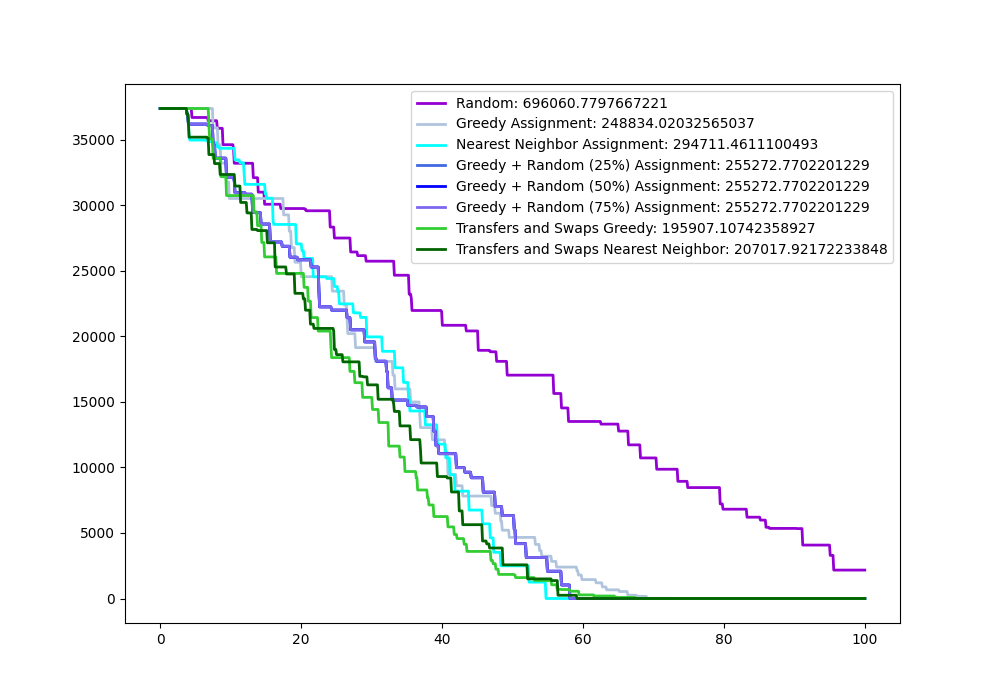
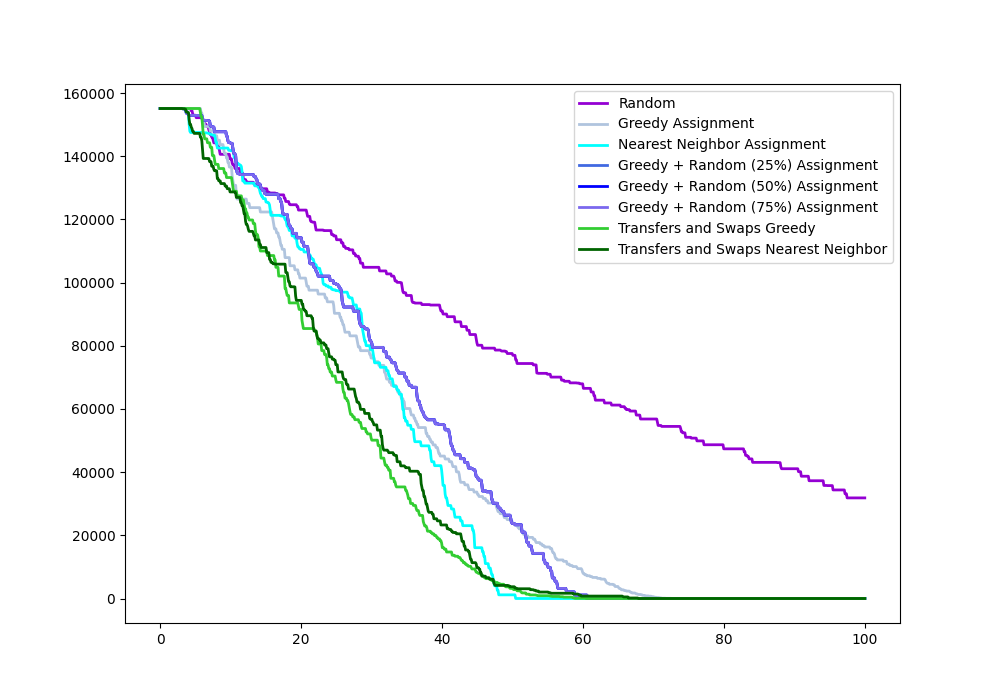
mass benchmark data collection complete

diff --git a/mass_benchmark.py b/mass_benchmark.py
@@ -102,12 +102,16 @@ def main() -> None:
     #         json.dump(res, outfile)
 
     ############################################################################
+    ######################### Generating Assignments ###########################
+    ############################################################################
+
+    ############################################################################
     ######################## Plotting Visited Targets ##########################
     ############################################################################
 
     # Parameters for Graphs and Partitions
-    num_agents: int = 5
-    num_nodes: int = 51  # 20 agents * 10 nodes per agent + start
+    num_agents: int = 20
+    num_nodes: int = 201  # 20 agents * 10 nodes per agent + start
     upper: float = 1.0  # Travel time between 0.5-1 hour
     node_w: tuple[int, int] = (1, 1500)
 
@@ -153,12 +157,12 @@ def main() -> None:
     assignments.append(paths)
     names.append("Greedy + Random (25%) Assignment")
     colors.append("royalblue")
-    
+
     paths = algos.greedy_random_assignment(g, num_agents, 0.5 + (dist_range * 0.50))
     assignments.append(paths)
     names.append("Greedy + Random (50%) Assignment")
     colors.append("blue")
-    
+
     paths = algos.greedy_random_assignment(g, num_agents, 0.5 + (dist_range * 0.75))
     assignments.append(paths)
     names.append("Greedy + Random (75%) Assignment")
@@ -170,13 +174,70 @@ def main() -> None:
     names.append("Transfers and Swaps Greedy")
     colors.append("limegreen")
 
-    part = algos.find_partition_with_heuristic(g, partition, algos.nearest_neighbor, 0.13)
+    part = algos.find_partition_with_heuristic(
+        g, partition, algos.nearest_neighbor, 0.13
+    )
     paths = benchmark.solve_partition(g, part, algos.nearest_neighbor)
     assignments.append(paths)
     names.append("Transfers and Swaps Nearest Neighbor")
     colors.append("darkgreen")
-    
+
+    maximums: DefaultDict[str, list[float]] = defaultdict(list)
+    wait_times: DefaultDict[str, list[float]] = defaultdict(list)
+    minimums: DefaultDict[str, list[float]] = defaultdict(list)
+    sums: DefaultDict[str, list[float]] = defaultdict(list)
+    ranges: DefaultDict[str, list[float]] = defaultdict(list)
+    averages: DefaultDict[str, list[float]] = defaultdict(list)
+
+    for curr, path in zip(names, assignments):
+        (
+            curr_max,
+            curr_wait,
+            curr_min,
+            curr_range,
+            curr_sum,
+            curr_avg,
+        ) = benchmark.benchmark_partition(g, path)
+
+        maximums[curr].append(curr_max)
+        wait_times[curr].append(curr_wait)
+        minimums[curr].append(curr_min)
+        ranges[curr].append(curr_range)
+        sums[curr].append(curr_sum)
+        averages[curr].append(curr_avg)
+
+    print(f"{Bcolors.OKBLUE}Sums: {Bcolors.ENDC}")
+    for key, vals in sums.items():
+        print(f"\t{key:40}{sum(vals)}")
+    print()
+
+    print(f"{Bcolors.OKBLUE}Maximums: {Bcolors.ENDC}")
+    for key, vals in maximums.items():
+        print(f"\t{key:40}{sum(vals)}")
+    print()
+
+    print(f"{Bcolors.OKBLUE}Wait Times: {Bcolors.ENDC}")
+    for key, vals in wait_times.items():
+        print(f"\t{key:40}{sum(vals)}")
+    print()
+
+    print(f"{Bcolors.OKBLUE}Minimums: {Bcolors.ENDC}")
+    for key, vals in minimums.items():
+        print(f"\t{key:40}{sum(vals)}")
+    print()
+
+    print(f"{Bcolors.OKBLUE}Ranges: {Bcolors.ENDC}")
+    for key, vals in ranges.items():
+        print(f"\t{key:40}{sum(vals)}")
+    print()
+
+    print(f"{Bcolors.OKBLUE}Averages: {Bcolors.ENDC}")
+    for key, vals in averages.items():
+        print(f"\t{key:40}{sum(vals)}")
+    print()
+
     benchmark.line_plot(g, assignments, names, colors, x_range=(0, 100))
+
 
 if __name__ == "__main__":
     main()

diff --git a/benchmark.py b/benchmark.py
@@ -684,10 +684,9 @@ def line_plot(
     #   https://matplotlib.org/3.5.0/_images/sphx_glr_named_colors_003.png
 
     for paths, name, color in zip(assignments, names, colors):
-        curr_max: float = max(algos.wlp(g, path) for path in paths)
         f = algos.generate_partition_path_function(g, paths)
         y = [total - f(i) for i in x]
-        (line,) = ax.plot(x, y, label=f"{name}: {curr_max}", linewidth=2.0, color=color)
+        (line,) = ax.plot(x, y, label=f"{name}", linewidth=2.0, color=color)
         lines.append(line)
 
     mplcursors.cursor(lines, highlight=True)
